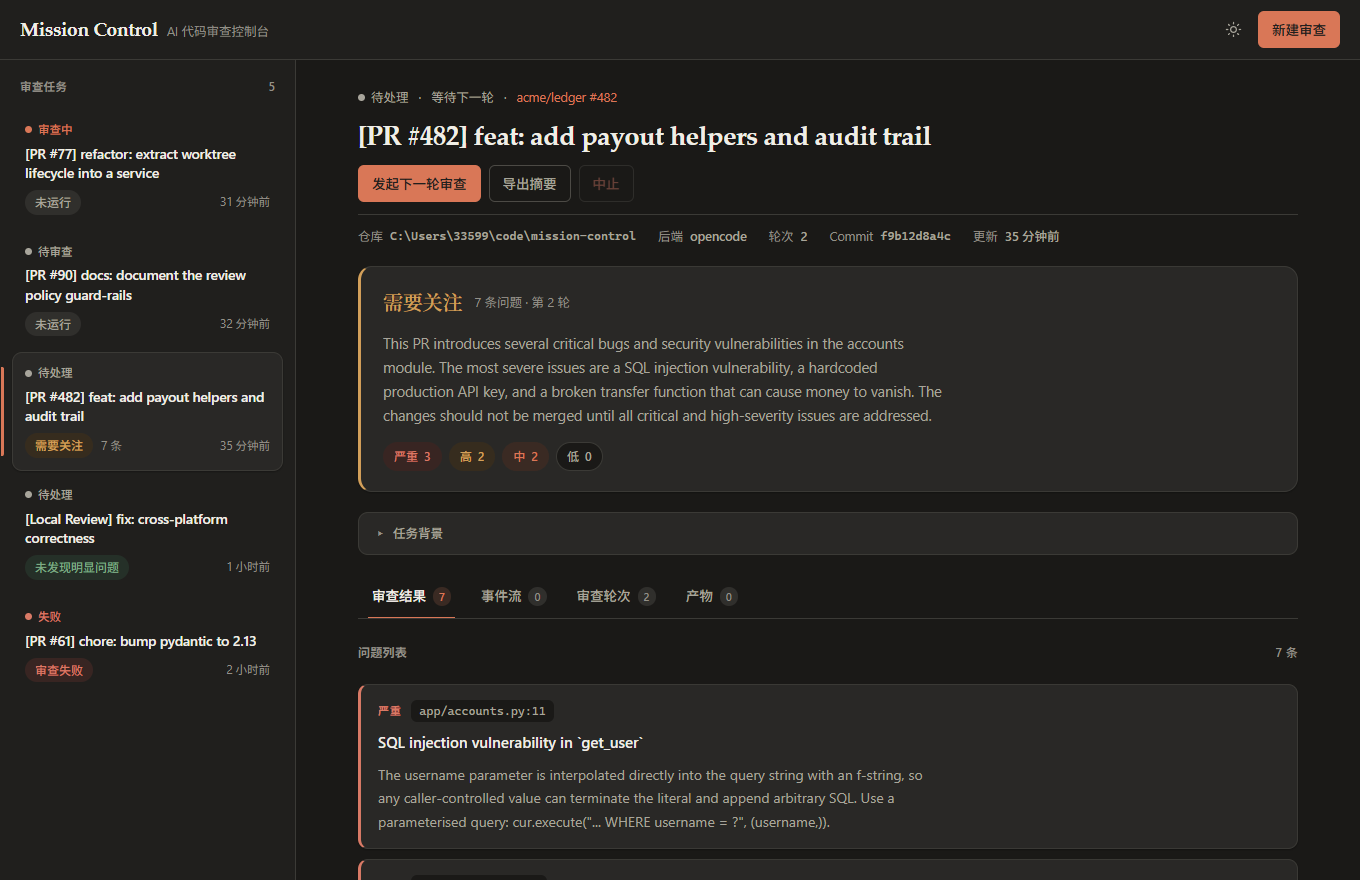
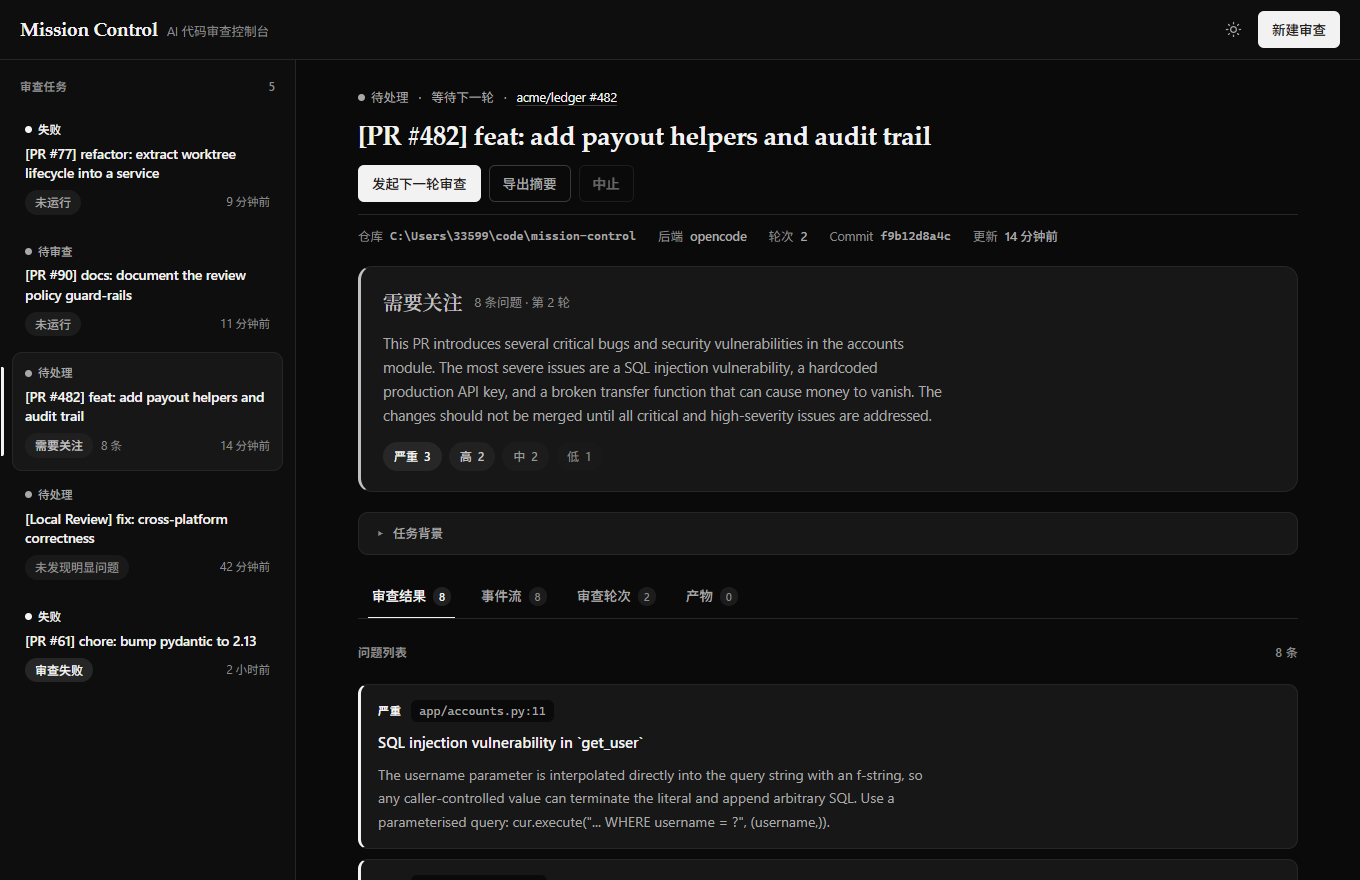
feat(ui): make the dark theme matte monochrome, and give severity its own ramp
The two themes are now deliberately different moods rather than the same design
with the lights turned off:

- Light stays warm paper, with hue doing the semantic work.
- Dark drops hue entirely. Flat neutral surfaces (#0e0e0e / #171717), hairline
  borders, and --shadow set to none so nothing reads as glossy. Separation comes
  from borders, not lift.

With no hue available, dark carries meaning on a luminance ramp instead —
brighter means more urgent — so --danger is the brightest value in the theme and
--ok one of the dimmest. The primary button becomes white with dark ink.

Severity gets its own four-step ramp rather than aliasing the semantic colours.
That fixes a real contrast bug: .finding.sev-low mapped --sev to
--border-strong, and .sev-tag renders --sev as *text*, so low-severity tags were
drawing at roughly 1.4:1 in the light theme. The earlier audit missed it because
it only sampled the first finding, which is always critical. The audit now
samples all four severities and all four chips, which is how this surfaced.

Because the dark ramp has no hue, severity must never rest on it alone. Every
state already carries a text label (严重/高/中/低, 审查失败/需要关注/未发现明显问题).
Links and disclosure summaries now also carry a persistent underline instead of
relying on colour, since --accent equals --text in the dark theme and a
hue-only link would be invisible as a link.

Contrast: 54/54 samples clear WCAG AA across both themes (was 42/42 over a
[…]

diff --git a/frontend/src/styles.css b/frontend/src/styles.css
@@ -37,6 +37,18 @@
   --neutral: #5c5a52;
   --neutral-soft: #efede5;
 
+  /* Severity scale. Its own ramp rather than aliases of the semantic colours,
+     because severity needs four distinguishable steps and every step is used
+     as *text* (.sev-tag), so all four must clear 4.5:1 on --surface. */
+  --sev-critical: #a93f2c;
+  --sev-high: #8f6220;
+  --sev-medium: #55677a;
+  --sev-low: #6e6a60;
+  --sev-critical-soft: #f9e9e5;
+  --sev-high-soft: #f8efe1;
+  --sev-medium-soft: #e9eef3;
+  --sev-low-soft: #efede5;
+
   --radius-sm: 6px;
   --radius: 10px;
   --radius-lg: 14px;
@@ -63,35 +75,54 @@
   text-rendering: optimizeLegibility;
 }
 
+/* Dark theme — matte monochrome.
+   Light mode is warm paper; dark mode is deliberately a different mood: no hue
+   at all, flat neutral surfaces, hairline borders, and almost no shadow, so
+   nothing reads as glossy. Meaning is carried by a luminance ramp instead of
+   colour — brighter = more urgent — which is why --danger is the brightest
+   value here and --ok the dimmest. Every state also carries a text label
+   (严重/高/中/低, 审查失败/需要关注/未发现明显问题), so severity never depends
+   on the ramp alone. */
 :root[data-theme='dark'] {
-  --bg: #201f1d;
-  --surface: #292826;
-  --surface-sunken: #1a1917;
-  --surface-hover: #323130;
-  --border: #3b3a36;
-  --border-strong: #4c4a45;
+  --bg: #0e0e0e;
+  --surface: #171717;
+  --surface-sunken: #0a0a0a;
+  --surface-hover: #1f1f1f;
+  --border: #262626;
+  --border-strong: #3a3a3a;
 
-  --text: #f0eee6;
-  --text-secondary: #a8a59b;
-  --text-muted: #939087;
+  --text: #f2f2f2;
+  --text-secondary: #a8a8a8;
+  --text-muted: #8c8c8c;
 
-  --accent: #d97757;
-  --accent-hover: #e18a6d;
-  --accent-soft: #3a2a23;
-  --accent-ring: rgba(217, 119, 87, 0.4);
+  --accent: #f2f2f2;
+  --accent-hover: #ffffff;
+  --accent-soft: #212121;
+  --accent-ring: rgba(242, 242, 242, 0.26);
 
-  --ok: #7faa84;
-  --ok-soft: #253028;
-  --warn: #d3a05a;
-  --warn-soft: #362c1e;
-  --danger: #d97a66;
-  --danger-soft: #382522;
-  --neutral: #a8a59b;
-  --neutral-soft: #302f2c;
+  /* urgency ramp: dim = calm, bright = demands attention */
+  --ok: #8f8f8f;
+  --ok-soft: #191919;
+  --warn: #c2c2c2;
+  --warn-soft: #1f1f1f;
+  --danger: #f5f5f5;
+  --danger-soft: #262626;
+  --neutral: #a8a8a8;
+  --neutral-soft: #1c1c1c;
 
-  --shadow-sm: 0 1px 2px rgba(0, 0, 0, 0.3);
-  --shadow: 0 2px 8px rgba(0, 0, 0, 0.32), 0 1px 2px rgba(0, 0, 0, 0.24);
-  --shadow-lg: 0 16px 48px rgba(0, 0, 0, 0.48);
+  --sev-critical: #f5f5f5;
+  --sev-high: #c2c2c2;
+  --sev-medium: #969696;
+  --sev-low: #838383;
+  --sev-critical-soft: #272727;
+  --sev-high-soft: #212121;
+  --sev-medium-soft: #1c1c1c;
+  --sev-low-soft: #191919;
+
+  /* matte: separation comes from borders, not from lift */
+  --shadow-sm: none;
+  --shadow: none;
+  --shadow-lg: 0 24px 64px rgba(0, 0, 0, 0.7);
 }
 
 * { box-sizing: border-box; }
@@ -389,8 +420,15 @@ code, .mono { font-family: var(--font-mono); }
   color: var(--text-secondary);
   flex-wrap: wrap;
 }
-.detail-eyebrow a { color: var(--accent); text-decoration: none; }
-.detail-eyebrow a:hover { text-decoration: underline; }
+/* Underline rather than colour alone: in the dark theme --accent is white, so
+   a hue-only link would be indistinguishable from body text. */
+.detail-eyebrow a {
+  color: var(--accent);
+  text-decoration: underline;
+  text-decoration-color: var(--border-strong);
+  text-underline-offset: 3px;
+}
+.detail-eyebrow a:hover { text-decoration-color: currentColor; }
 
 .detail-title {
   margin: 0;
@@ -489,10 +527,10 @@ code, .mono { font-family: var(--font-mono); }
   border: 1px solid var(--border);
 }
 .sev-chip .n { font-variant-numeric: tabular-nums; font-weight: 600; }
-.sev-chip.on-critical { background: var(--danger-soft); color: var(--danger); border-color: transparent; }
-.sev-chip.on-high     { background: var(--warn-soft); color: var(--warn); border-color: transparent; }
-.sev-chip.on-medium   { background: var(--accent-soft); color: var(--accent); border-color: transparent; }
-.sev-chip.on-low      { background: var(--neutral-soft); color: var(--text-secondary); border-color: transparent; }
+.sev-chip.on-critical { background: var(--sev-critical-soft); color: var(--sev-critical); border-color: transparent; }
+.sev-chip.on-high     { background: var(--sev-high-soft); color: var(--sev-high); border-color: transparent; }
+.sev-chip.on-medium   { background: var(--sev-medium-soft); color: var(--sev-medium); border-color: transparent; }
+.sev-chip.on-low      { background: var(--sev-low-soft); color: var(--sev-low); border-color: transparent; }
 
 /* ── Pills ──────────────────────────────────────────────── */
 
@@ -589,10 +627,10 @@ code, .mono { font-family: var(--font-mono); }
   gap: 9px;
   box-shadow: var(--shadow-sm);
 }
-.finding.sev-critical { --sev: var(--danger); }
-.finding.sev-high     { --sev: var(--warn); }
-.finding.sev-medium   { --sev: var(--accent); }
-.finding.sev-low      { --sev: var(--border-strong); }
+.finding.sev-critical { --sev: var(--sev-critical); }
+.finding.sev-high     { --sev: var(--sev-high); }
+.finding.sev-medium   { --sev: var(--sev-medium); }
+.finding.sev-low      { --sev: var(--sev-low); }
 
 .finding-top {
   display: flex;
@@ -690,7 +728,11 @@ code, .mono { font-family: var(--font-mono); }
   font-size: 12.5px;
   color: var(--accent);
   width: fit-content;
+  text-decoration: underline;
+  text-decoration-color: var(--border-strong);
+  text-underline-offset: 3px;
 }
+.event summary:hover { text-decoration-color: currentColor; }
 .event details pre {
   margin-top: 8px;
   padding: 11px 13px;

diff --git a/frontend/README.md b/frontend/README.md
@@ -34,14 +34,31 @@ properties, so re-theming means editing one block.
 | Text | `--text`, `--text-secondary`, `--text-muted` |
 | Brand | `--accent`, `--accent-hover`, `--accent-soft`, `--accent-ring` |
 | Semantic | `--ok`, `--warn`, `--danger`, `--neutral` (+ `-soft` fills) |
+| Severity | `--sev-critical`, `--sev-high`, `--sev-medium`, `--sev-low` (+ `-soft`) |
 | Type | `--font-sans`, `--font-serif`, `--font-mono` |
+
+### Two moods
+
+The themes are not the same design with the lights turned off.
+
+- **Light — warm paper.** Surfaces carry a slight yellow cast. Hue does the
+  semantic work: red / amber / slate / grey for the severity ramp.
+- **Dark — matte monochrome.** No hue anywhere. Flat neutral surfaces, hairline
+  borders, `--shadow` disabled so nothing reads as glossy. Meaning is carried by
+  a **luminance ramp — brighter means more urgent** — so `--danger` is the
+  brightest value in the theme and `--ok` one of the dimmest.
+
+Because the dark ramp has no hue, severity must never depend on it alone. Every
+state also carries a text label (`严重/高/中/低`, `审查失败/需要关注/未发现明显问题`),
+and links carry a persistent underline rather than a colour shift.
 
 Conventions worth keeping:
 
-- **Warm neutrals, not grey.** Surfaces carry a slight yellow cast; dark mode is
-  a warm near-black rather than pure black.
-- **Colour means something.** Hue is reserved for status, verdict, and severity.
-  Chrome is neutral.
+- **Colour means something.** Hue (light) or luminance (dark) is reserved for
+  status, verdict, and severity. Chrome stays neutral in both.
+- **Severity has its own ramp**, not aliases of the semantic colours — it needs
+  four distinguishable steps, and every step is used as *text*, so all four must
+  clear 4.5:1 on `--surface`.
 - **Serif for voice, sans for UI.** The brand, page title, verdict word, and
   round number use `--font-serif`; controls and data use `--font-sans`.
 - **Monospace for identifiers.** Paths, SHAs, and event kinds use `--font-mono`
